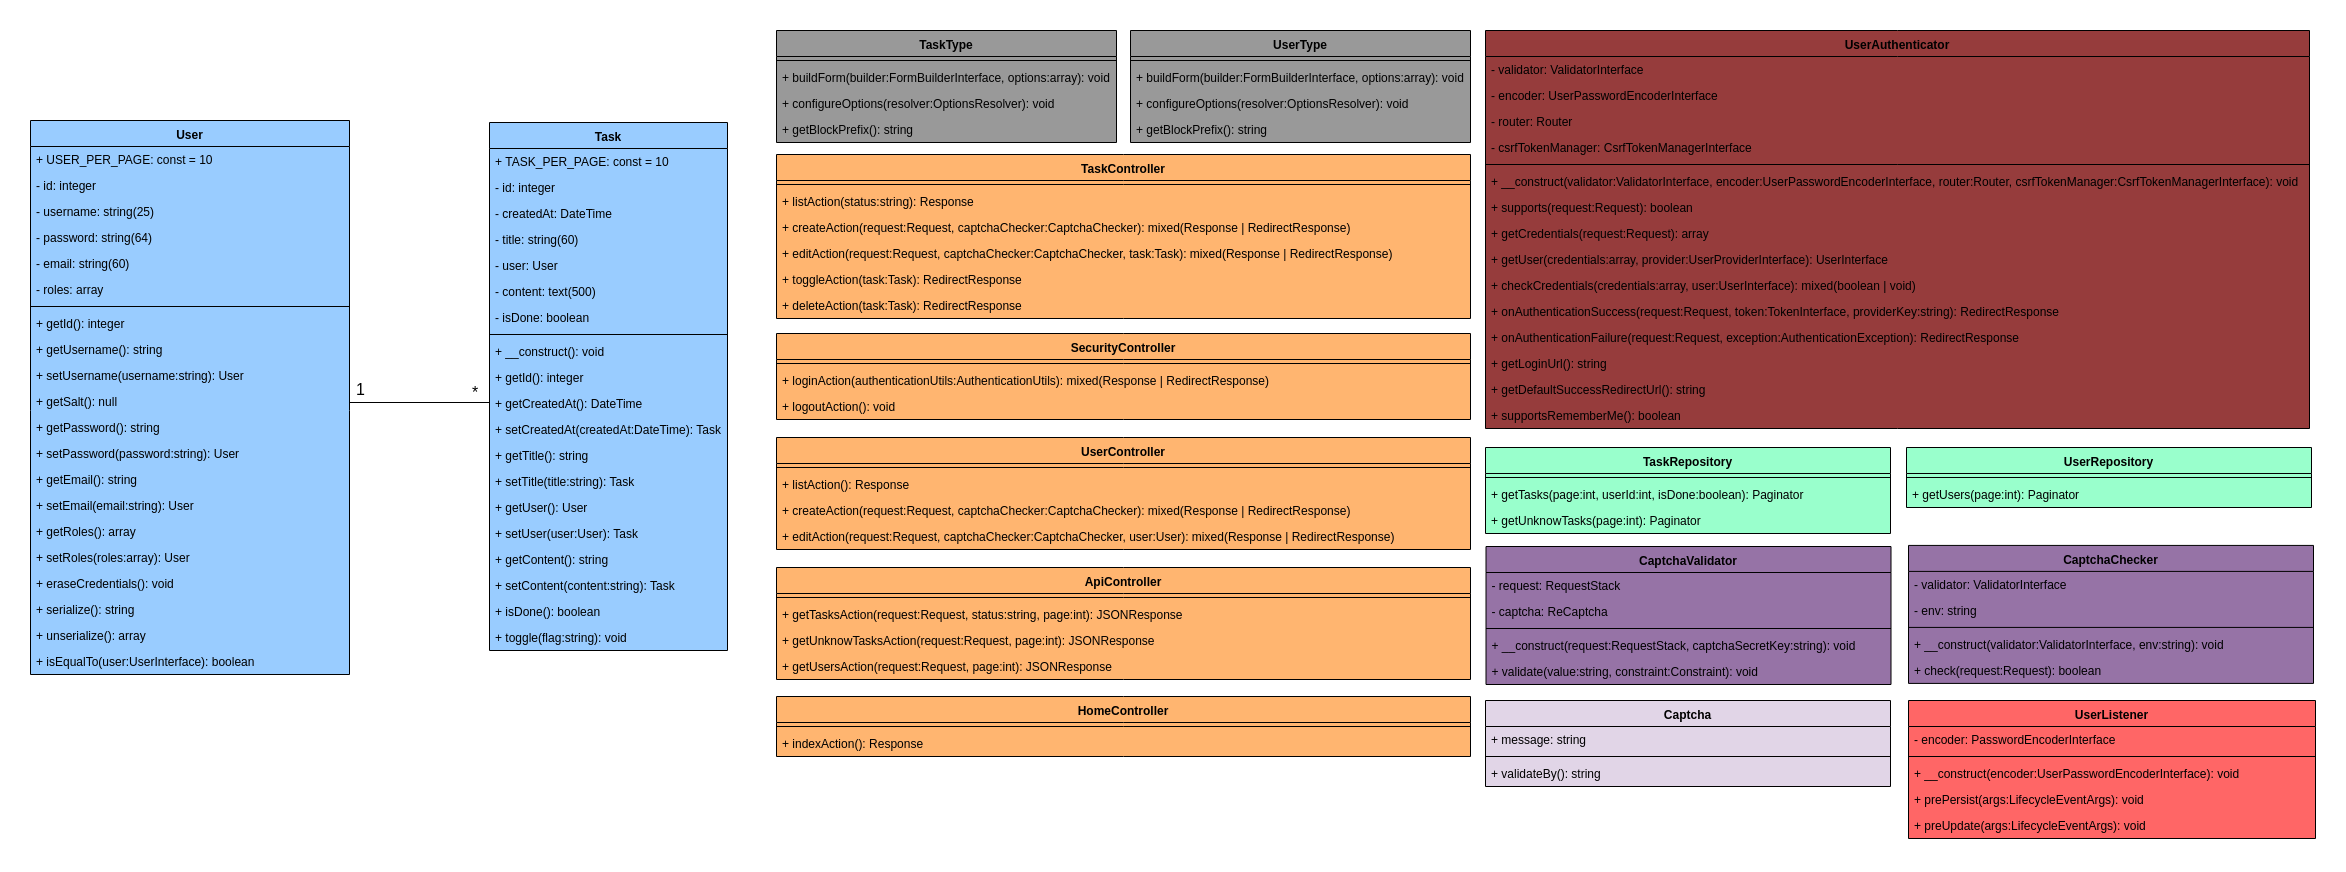
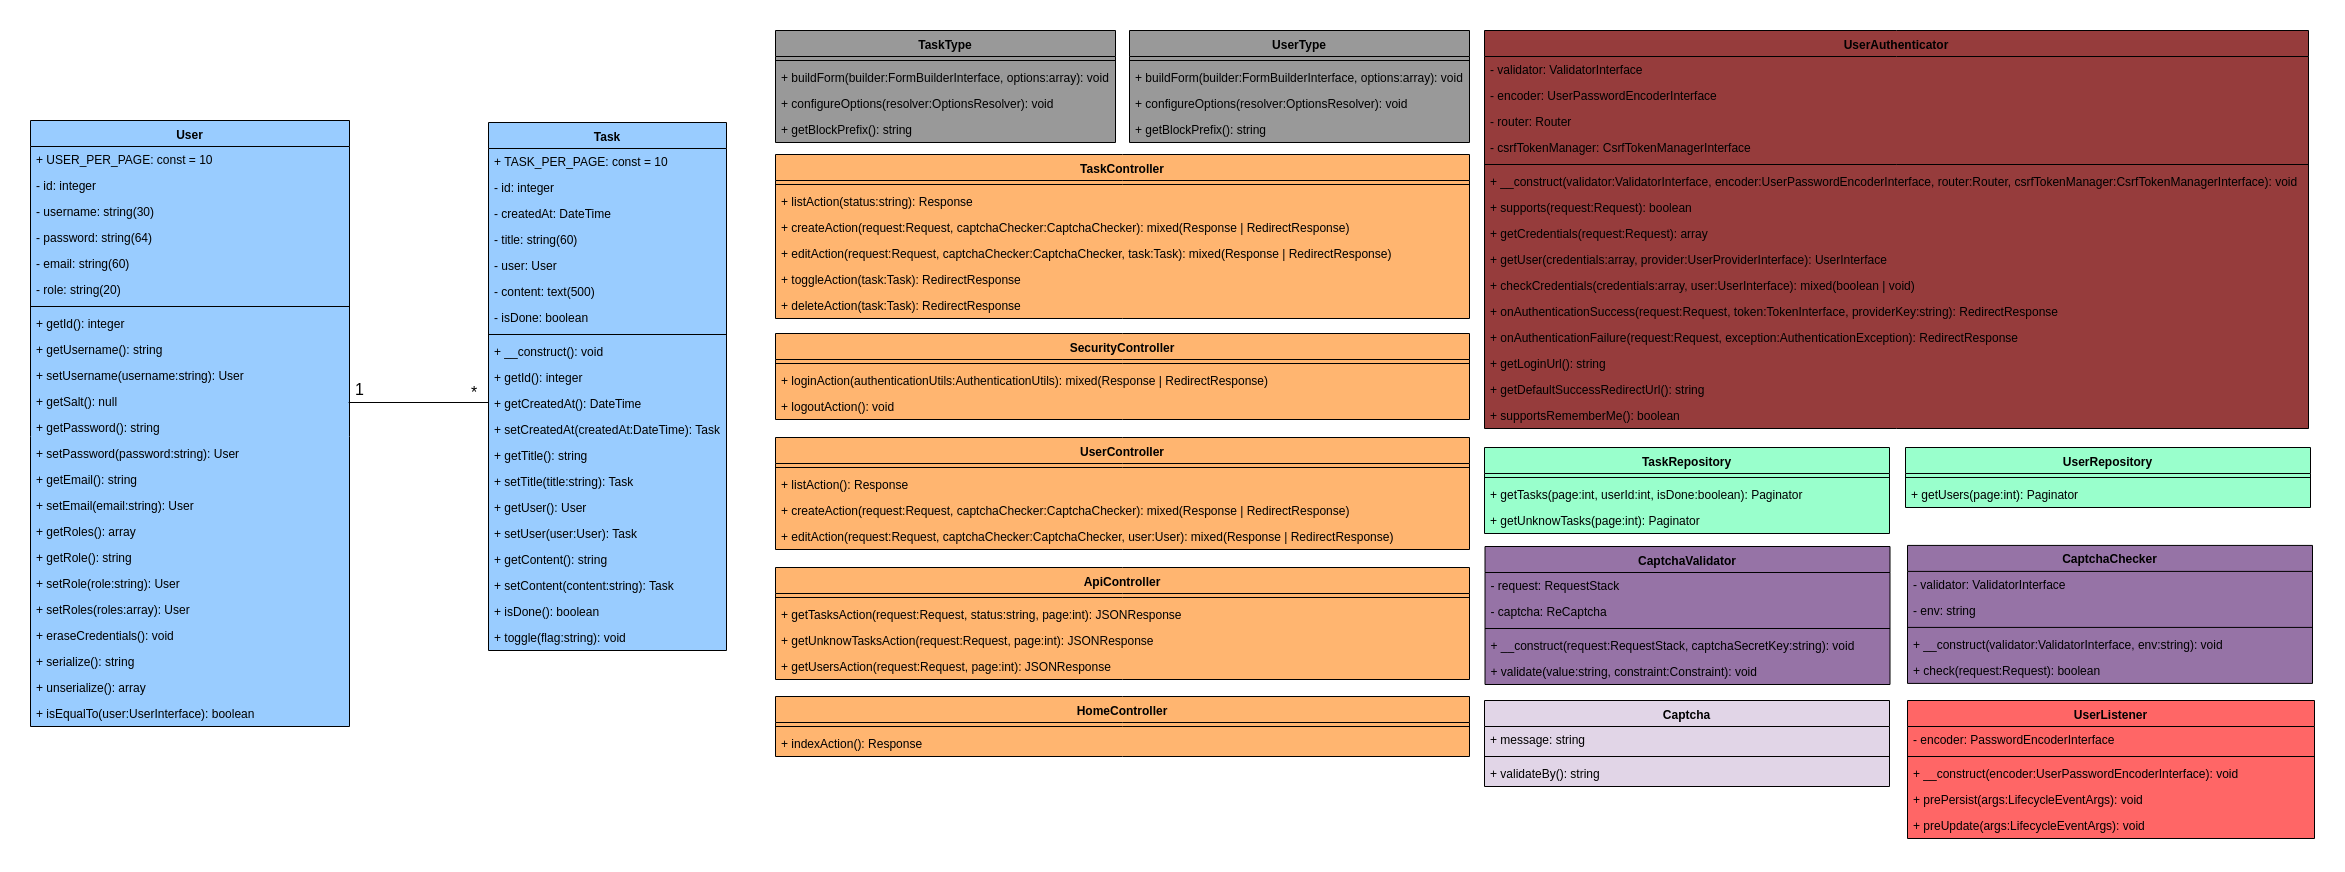
Update diagrams

diff --git a/src/AppBundle/Entity/User.php b/src/AppBundle/Entity/User.php
@@ -205,23 +205,9 @@ class User implements UserInterface, EquatableInterface
      * 
      * @return User
      */
-    public function setRole(string $role): User
+    public function setRole($role): User
     {
         $this->role = $role;
-
-        return $this;
-    }
-
-    /**
-     * add role
-     * @access public
-     * @param string role
-     * 
-     * @return User
-     */
-    public function addRole(string $role)
-    {
-        $this->roles[] = $role;
 
         return $this;
     }
